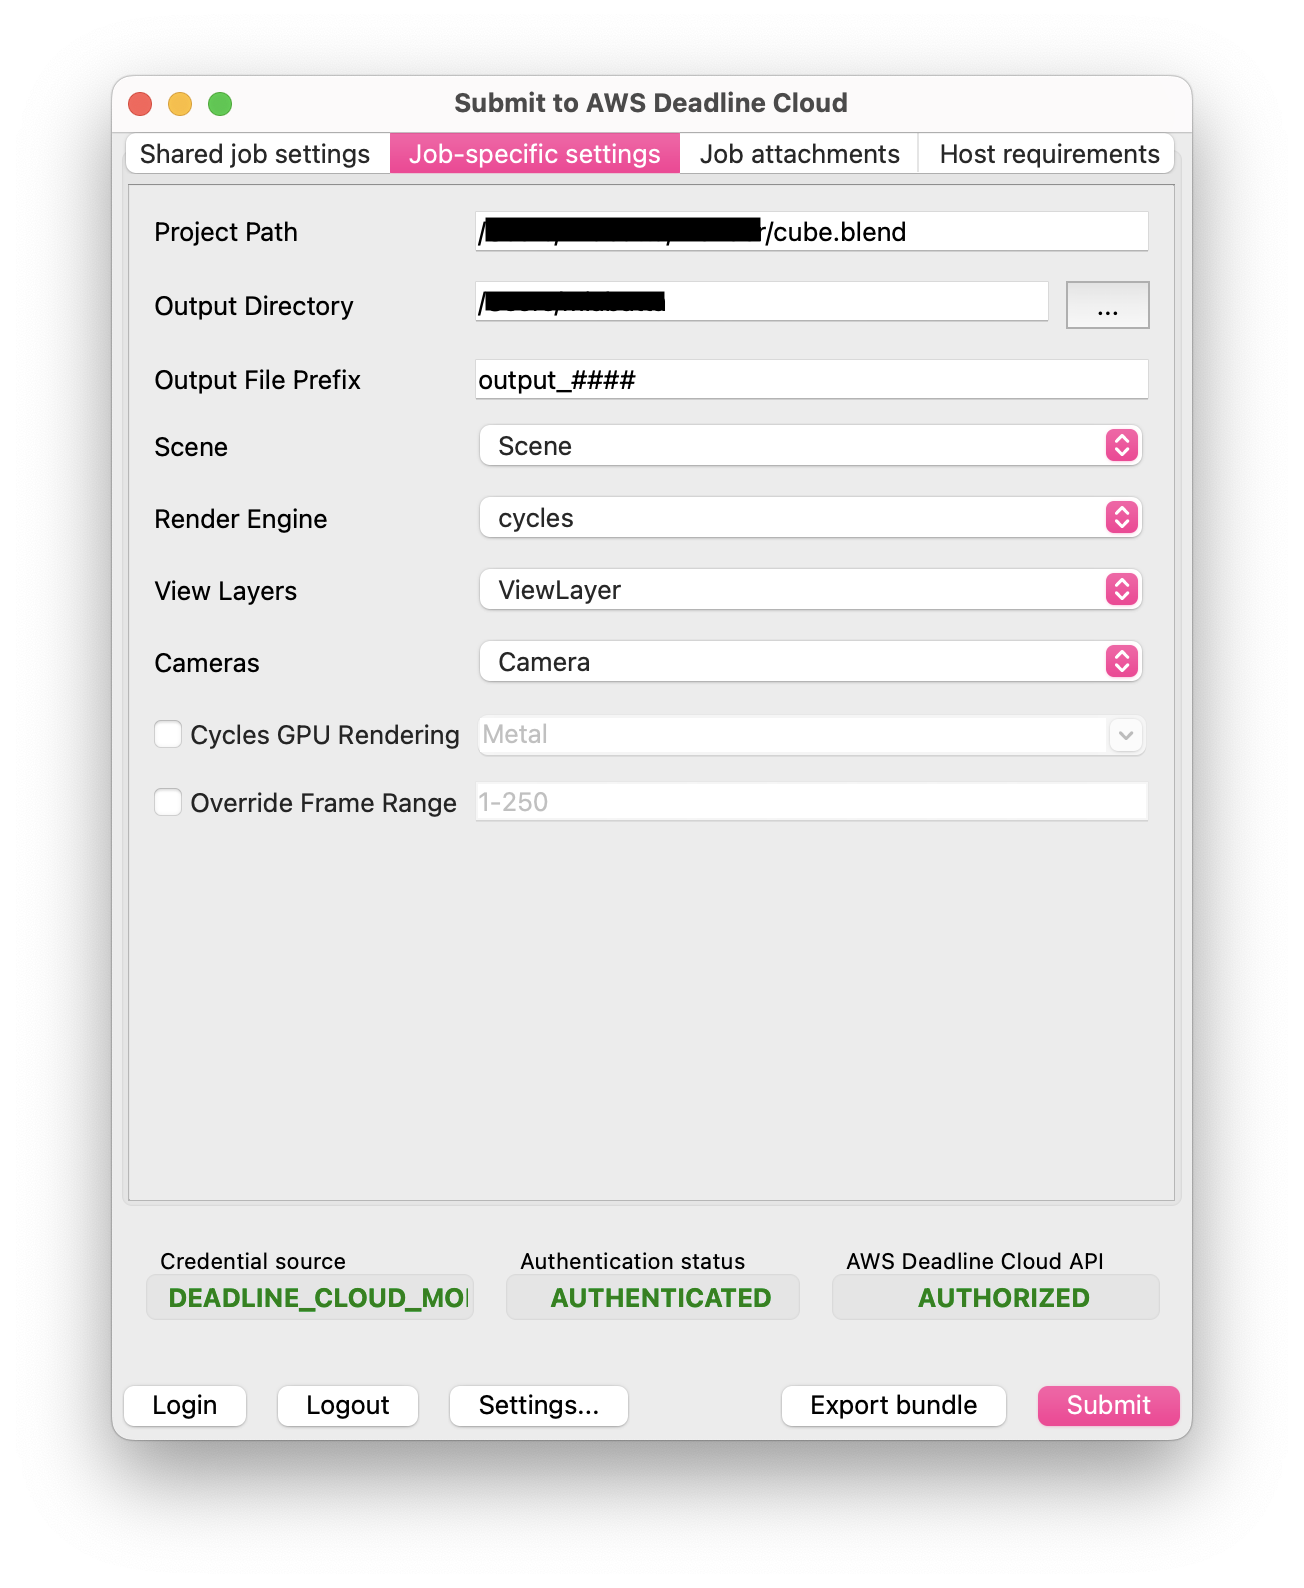
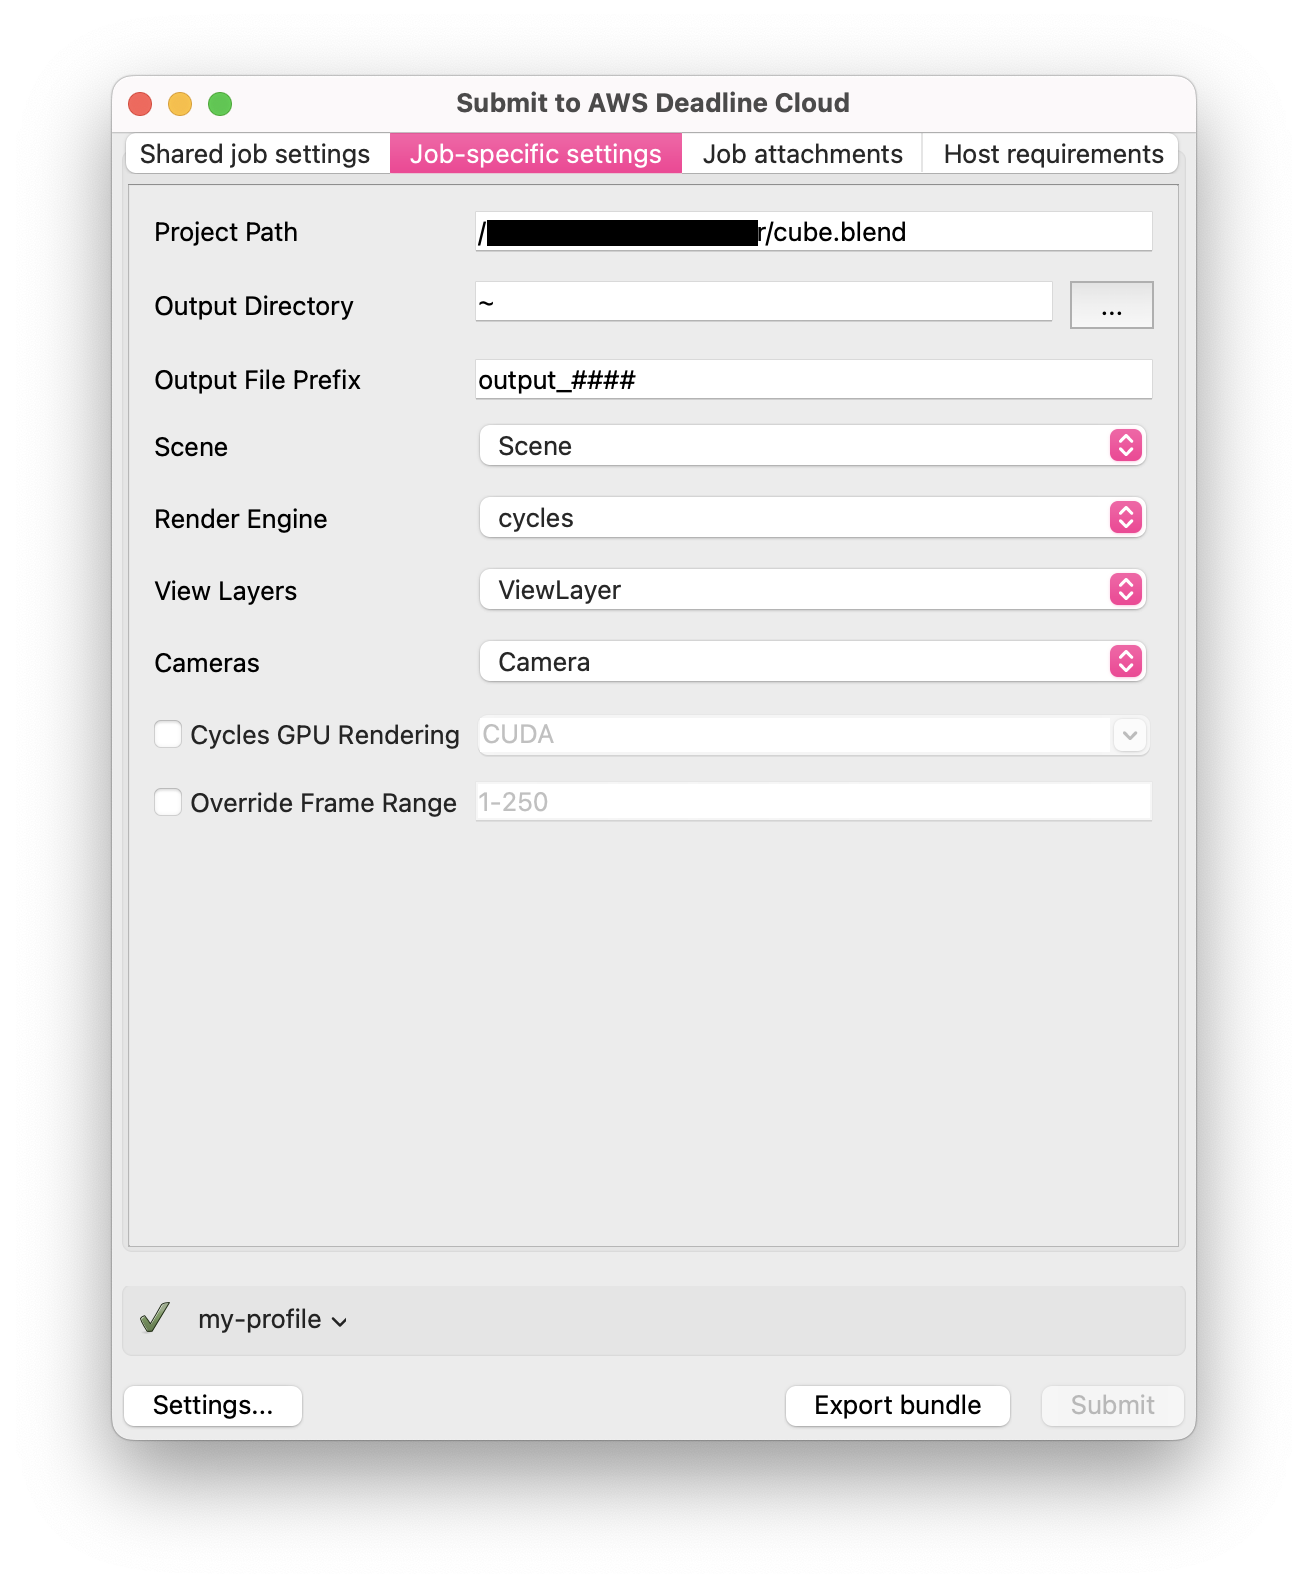
docs: Add information to user guide

diff --git a/docs/user_guide/using-submitter.md b/docs/user_guide/using-submitter.md
@@ -1,15 +1,20 @@
 # Using the Deadline Cloud for Blender submitter
 
+To use the Deadline Cloud for Blender submitter, you will need:
+
+- A profile to submit to Deadline Cloud with
+- A Deadline Cloud farm and queue to submit to
+
 ## Submit a job
 
 **To submit a job from Blender to Deadline Cloud**
 
 1. Save your Blender file.
 1. In Blender's **Render** menu, choose **Submit to AWS Deadline Cloud**.
-    - You may see a pop-up to install GUI dependencies. Choose **OK** and the submitter dialog will appear shortly.
-1. Choose **Login** at the bottom of the dialog to log into your AWS profile.
+    - You may see a pop-up to install GUI dependencies. Choose **OK** and wait for the dialog to disappear, then choose **Submit to AWS Deadline Cloud** again.
 1. Use the tabs in the dialog to customize your job.
-1. (Optional) To export a job bundle to your job history directory without submitting it, choose **Export bundle**.
+1. (Optional) To export a job's associated files to your job history directory without submitting it, choose **Export bundle**.
+    - A _job bundle_ is a group of files that defines a job. For more information, see [Open Job Description templates for Deadline Cloud](https://docs.aws.amazon.com/deadline-cloud/latest/developerguide/build-job-bundle.html).
 1. Choose **Submit** and follow the prompts to send your job to Deadline Cloud.
 
 ## Blender-specific Settings
@@ -18,13 +23,13 @@ The **Job-specific settings** tab has options specific to jobs created in Blende
 
   - *Project Path* - The location where the current project is saved. Can't be changed.
   - *Output Directory* - The location to save file outputs from the render job.
-  - *Output File Prefix* - The pattern to use when naming file outputs. Follows Blender's convention for file names.
+  - *Output File Prefix* - The pattern to use when naming file outputs, follows Blender's convention for file names. Output files are formatted like `[LayerName]_[CameraName]_[OutputPrefix].[EXT]`.
   - *Scene* - The scene from the current project to render.
   - *Render Engine* - The render engine (Cycles, EEVEE, or Workbench) to use.
   - *View Layers* - The layer to render, or "All Renderable Layers" to render each applicable layer in the scene separately.
   - *Cameras* - The camera to render, or "All Renderable Cameras" to render each camera in the scene separately.
-  - *Cycles GPU Rendering* - Select this to enable GPU rendering. Choose a device type supported by Blender or specify your own.
-  - *Override Frame Range* - Select this to render a different frame or frame range than is specified in the scene file.
+  - *Cycles GPU Rendering* - Select this to enable GPU rendering. Choose a device type supported by Blender or specify your own. If this device type is not supported on your rendering machine, the adaptor will attempt to use a compatible device type before falling back to CPU rendering.
+  - *Override Frame Range* - Select this to render a different frame or frame range than is set in the scene file. Frame ranges follow the [Open Job Description](https://github.com/OpenJobDescription/openjd-specifications/wiki/2023-09-Template-Schemas#34111-intrangeexpr) pattern.
 
 For information about the other submitter tabs, see the [AWS Deadline Cloud guide for using a submitter](https://docs.aws.amazon.com/deadline-cloud/latest/userguide/jobs-using-submitter.html).
 

diff --git a/docs/user_guide/telemetry.md b/docs/user_guide/telemetry.md
@@ -2,14 +2,27 @@
 
 This library collects telemetry data by default. Telemetry events contain non-personally identifiable information that helps us understand how users interact with our software. We use this to know which features our customers use and/or what existing pain points are.
 
-You can opt out of telemetry on your machine by editing your Deadline Cloud configuration, or temporarily by setting an environment variable in your terminal.
+There are three ways to opt out of telemetry:
 
-**To opt out of telemetry (config)**
+- Use the submitter dialog (recommended)
+- Use the command-line tool
+- Set a terminal environment variable
+
+**To opt out of telemetry (submitter)**
+
+1. Launch the submitter by choosing **Render**, **Submit to AWS Deadline Cloud**.
+1. Choose **Settings...** at the bottom of the submitter dialog.
+1. Under **General settings**, check **Telemetry opt out**.
+1. Choose **Apply** to save the setting, or **OK** to save and close the settings dialog.
+
+**To opt out of telemetry (command line)**
 
 1. Run the `deadline config` command:
 ```sh
 deadline config set telemetry.opt_out true
 ```
+
+This is equivalent to checking **Telemetry opt out** in the submitter GUI as described above.
 
 **To opt out of telemetry (terminal)**
 

diff --git a/docs/user_guide/installation/installation.md b/docs/user_guide/installation/installation.md
@@ -5,19 +5,10 @@ You can install the Deadline Cloud for Blender submitter using the Deadline Clou
 **To install the submitter**
 
 1. Download the [Deadline Cloud submitter installer](https://docs.aws.amazon.com/deadline-cloud/latest/userguide/submitter.html).
-1. Run the installer and follow the prompts.
+1. Run the installer.
+    - When prompted, select each version of Blender you want to use the submitter with.
 1. Launch Blender.
-
-The Deadline Cloud submitter add-on should be automatically enabled.
-> The submitter installer is available for Windows, MacOS, and Linux. See the [developer README](https://github.com/aws-deadline/deadline-cloud-for-blender/blob/mainline/README.md) for manual installation instructions.
-
-**To verify the submitter is installed correctly**
-
-1. Open Blender.
-1. On the **Edit** menu, choose **Preferences…**.
-1. Choose **Add-ons** on the left side bar.
-1. Search for `Deadline Cloud`.
-1. You should see the **AWS Deadline Cloud for Blender Submitter** add-on listed and enabled.
+1. Verify the installation by checking the **Render** menu for a **Submit to AWS Deadline Cloud** option.
 
 If the add-on is not available from the **Render** menu, you will need to manually enable it.
 

diff --git a/docs/user_guide/installation/index.md b/docs/user_guide/installation/index.md
@@ -4,12 +4,9 @@ To install the AWS Deadline Cloud for Blender submitter, you will need:
 
 - A Windows, MacOS, or Linux workstation
 - Blender 3.6 or later
-- [Deadline Cloud monitor](https://docs.aws.amazon.com/deadline-cloud/latest/userguide/monitor-onboarding.html)
-- Access to an AWS Deadline Cloud farm with either
-    - a service-managed fleet, or
-    - a customer-managed fleet with Blender and the Blender adaptor set up
 
-There are two ways to install the Deadline Cloud for Blender submitter:
+There are three ways to install the Deadline Cloud for Blender submitter:
 
 - [Using the Deadline Cloud submitter installer](installation.md) (recommended)
 - [Installing the submitter from Blender](enable-addon.md)
+- [Manually installing the submitter from source](https://github.com/aws-deadline/deadline-cloud-for-blender/blob/mainline/DEVELOPMENT.md#manual-installation) (links to GitHub)
